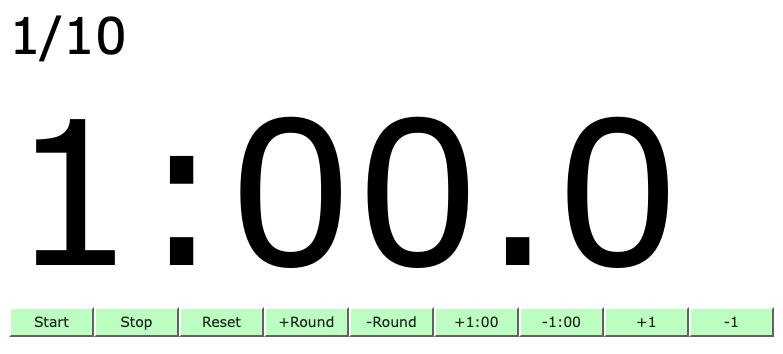
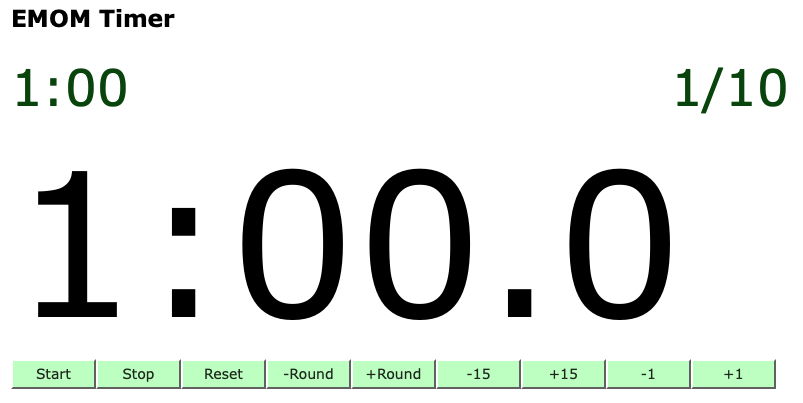
cleaning up blinking behavior

diff --git a/src/main.rs b/src/main.rs
@@ -4,6 +4,8 @@ use yew::{html, Component, Context, Html};
 
 use emom::emomtimer::{Msg, Time, Timer, DEFAULT_MINUTES, DEFAULT_ROUNDS, DEFAULT_SECONDS};
 
+const BLINKED_COUNT: usize = 4;
+
 pub struct App {
     round_time: Time,
     timer: Timer,
@@ -66,11 +68,10 @@ impl App {
     }
 
     fn toggle_blinked_off(&mut self) {
-        if self.round_time.minutes == self.timer.current_time.minutes
-            || emom::emomtimer::distance::<_>(
-                self.round_time.seconds,
-                self.timer.current_time.seconds,
-            ) > 4
+        if emom::emomtimer::distance::<_>(
+                self.round_time.total_seconds(),
+                self.timer.current_time.total_seconds(),
+            ) >= BLINKED_COUNT
                 && self.blinked
         {
             self.blinked = false;
@@ -78,11 +79,10 @@ impl App {
     }
 
     fn toggle_blinked(&mut self) {
-        if self.round_time.minutes == self.timer.current_time.minutes
-            && emom::emomtimer::distance::<_>(
-                self.round_time.seconds,
-                self.timer.current_time.seconds,
-            ) < 4
+        if emom::emomtimer::distance::<_>(
+                self.round_time.total_seconds(),
+                self.timer.current_time.total_seconds(),
+            ) < BLINKED_COUNT
         {
             self.blinked = !self.blinked;
         }
@@ -136,11 +136,13 @@ impl Component for App {
             Msg::IncrementRound => {
                 info!("incrementing rounds");
                 self.timer.increment_rounds();
+                self.toggle_blinked_off();
                 true
             }
             Msg::DecrementRound => {
                 info!("decrementing rounds");
                 self.timer.decrement_rounds();
+                self.toggle_blinked_off();
                 true
             }
             Msg::IncrementSecond => {
@@ -201,7 +203,7 @@ impl Component for App {
                 <div class="mainTitle" align="left"><h3>{ "EMOM Timer" }</h3></div>
                 <div class="roundsDisplay" id="roundsDisplay" style="text-align:left">
                 { format!("{}/{}", state.current_round, state.rounds) }
-                <span style="float:left; width:660px">
+                <span style="float:left; width:650px">
                 { format!("{}:{:02}", self.round_time.minutes, self.round_time.seconds) }
                 </span>
                 </div>

diff --git a/src/lib.rs b/src/lib.rs
@@ -97,6 +97,11 @@ pub mod emomtimer {
                 self.minutes -= 1;
             }
         }
+
+        // ignoring tenths
+        pub fn total_seconds(&self) -> usize {
+            self.seconds + self.minutes * 60
+        }
     }
 
     pub struct Timer {
@@ -389,6 +394,23 @@ pub mod emomtimer {
             assert_eq!(distance(1, 2), 1);
             assert_eq!(distance(2, 1), 1);
             assert_eq!(distance(1, 1), 0);
+        }
+
+        #[test]
+        fn test_total_seconds() {
+            let mut time = Time {
+                seconds: 0,
+                minutes: 0,
+                tenths: 0,
+            };
+            assert_eq!(time.total_seconds(), 0);
+            time.seconds = 1;
+            assert_eq!(time.total_seconds(), 1);
+            time.seconds = 0;
+            time.minutes = 1;
+            assert_eq!(time.total_seconds(), 60);
+            time.seconds = 1;
+            assert_eq!(time.total_seconds(), 61);
         }
     }
 }

diff --git a/CHANGELOG.md b/CHANGELOG.md
@@ -1,3 +1,7 @@
+# 1.0.6 (2023-12-20)
+
+* blinked fixes
+
 # 1.0.5 (2023-12-20)
 
 * cleanup minutes handling
